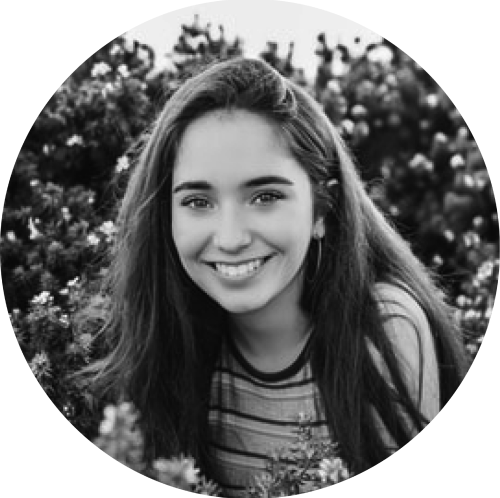
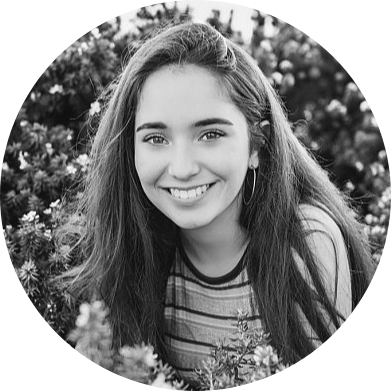
Merge branch 'main' of https://github.com/shreyansh090/WebTask2 into main

diff --git a/css/app.css b/css/app.css
@@ -17,6 +17,7 @@ background: #1D1E20;
     margin-left: 0;
     text-align: left;
     margin-top: 100px;
+    
 }
 
 .blurb h2 {
@@ -28,6 +29,10 @@ font-weight: 500;
 font-size: 50px;
 line-height: 61px;
 letter-spacing: 0.2em;
+animation-name:f;
+  animation-duration: 2s;
+  opacity:0.8;
+
 
 }
 .lead{
@@ -38,6 +43,10 @@ font-size: 30px;
 line-height: 37px;
 
 color: #FFFFFF;
+animation-name:f;
+  animation-duration: 2s;
+  
+ 
 }
 .text{
     font-family: Montserrat;
@@ -47,6 +56,9 @@ font-size: 20px;
 line-height: 24px;
 
 color: #FFFFFF;
+animation-name:f;
+  animation-duration: 2.5s;
+
 }
 
 
@@ -148,6 +160,8 @@ color: #FFFFFF;
   position: relative;
   width: 100%;
    padding-top: 100%;
+   animation-name:f;
+   animation-duration: 2.5s;
   
   
 }
@@ -159,6 +173,7 @@ color: #FFFFFF;
   transform: translateX(-50%);
   width: 70%;
   height: auto;
+ 
 
 }
 .circle{
@@ -170,24 +185,35 @@ color: #FFFFFF;
   left:10%;
   opacity:0.55;
   border-radius:50%;
+  animation-name:big1;
+  animation-duration: 2s;
+  animation-delay: 1.5;
 }
 .cr1{
   position:absolute;
   top:0%;
   left:80%;
   width:6.5%;
+  animation-name:big;
+  animation-duration: 2s;
+  animation-delay: 1.5;
 }
 .cr2{
   position:absolute;
   top:73%;
   left:55%;
   width:4.5%;
+  animation-name:big;
+  animation-duration: 2s;
+  animation-delay: 1.5;
+
 }
 
 .iconstyle{
   width: 100px;
     height: auto;
-    color: #13F7D2;   
+    color: #13F7D2; 
+    opacity: 0.5;  
     
 }
 .b{
@@ -252,3 +278,40 @@ color: #FFFFFF;
     }
    
   }
+  @keyframes f {
+    from {
+      transform: translateY(-100px);
+      opacity: 0;}
+    to {
+      transform: translateY(0);
+      opacity:1;}
+  }
+
+  @keyframes big{
+    from {
+      width:0px;
+      height: auto;
+      opacity: 0;}
+    to {
+      width:6.5%;
+      opacity:1;}
+  }
+  @keyframes big1{
+    from {
+      width:0px;
+      height: 0px;
+      opacity: 0;}
+    to {
+      width:25%;
+      opacity:1;}
+  }
+ .iconstyle:hover{
+   opacity: 1;
+   -webkit-transform: scale(1.2);
+  -ms-transform: scale(1.2);
+  transform: scale(1.2);
+ }
+ .blurb h2:hover{
+  opacity: 1;
+ }
+ 

diff --git a/index.html b/index.html
@@ -20,7 +20,7 @@
 
 <body>
     <nav id="mainNavbar" class="navbar navbar-dark navbar-expand-md py-0 fixed-top">
-        <a href="#" class="navbar-brand"><img src="imgs/gh.png" class ="i2 ">
+        <a href="" class="navbar-brand"><img src="imgs/gh.png" class ="i2 ">
             </a>
         <button class="navbar-toggler custom-toggler" data-toggle="collapse" data-target="#navLinks" aria-label="Toggle navigation">
             <span class="navbar-toggler-icon"></span>
@@ -45,7 +45,7 @@
             <div class="imgcontent">
                 
                 <div class ="imgset">
-                    <img src="imgs/img1.png" class ="girl">
+                    <img title="Hello" src="imgs/img1.png" onmouseover="this.src='imgs/img2.png'" onmouseout="this.src='imgs/img1.png'" class ="girl"/>
                     <img src ="imgs/cross.png" class ="cr1">
                     <img src ="imgs/cross.png" class ="cr2">
                     <div class = "circle"></div>
@@ -73,7 +73,7 @@
     </div>
     <div class ="foot">
         
-        <span class="fa-stack fa-2x iconstyle">
+        <span class="fa-stack fa-2x iconstyle ">
         <i class="fab fa-facebook-f  fa-stack-lg "></i>
         <i class="far fa-circle fa-stack-2x b"></i>
         </span>

diff --git a/app.css b/app.css
@@ -17,6 +17,7 @@ background: #1D1E20;
   margin-left: 0;
   text-align: left;
   margin-top: 100px;
+  
 }
 
 .blurb h2 {
@@ -28,6 +29,8 @@ font-weight: 500;
 font-size: 50px;
 line-height: 61px;
 letter-spacing: 0.2em;
+animation-name:f;
+  animation-duration: 2s;
 
 }
 .lead{
@@ -210,4 +213,9 @@ img.girl{
     margin-top: 100px;
   }
 
+}
+
+@keyframes f {
+  from {color:red;}
+  to {color:white;}
 }
